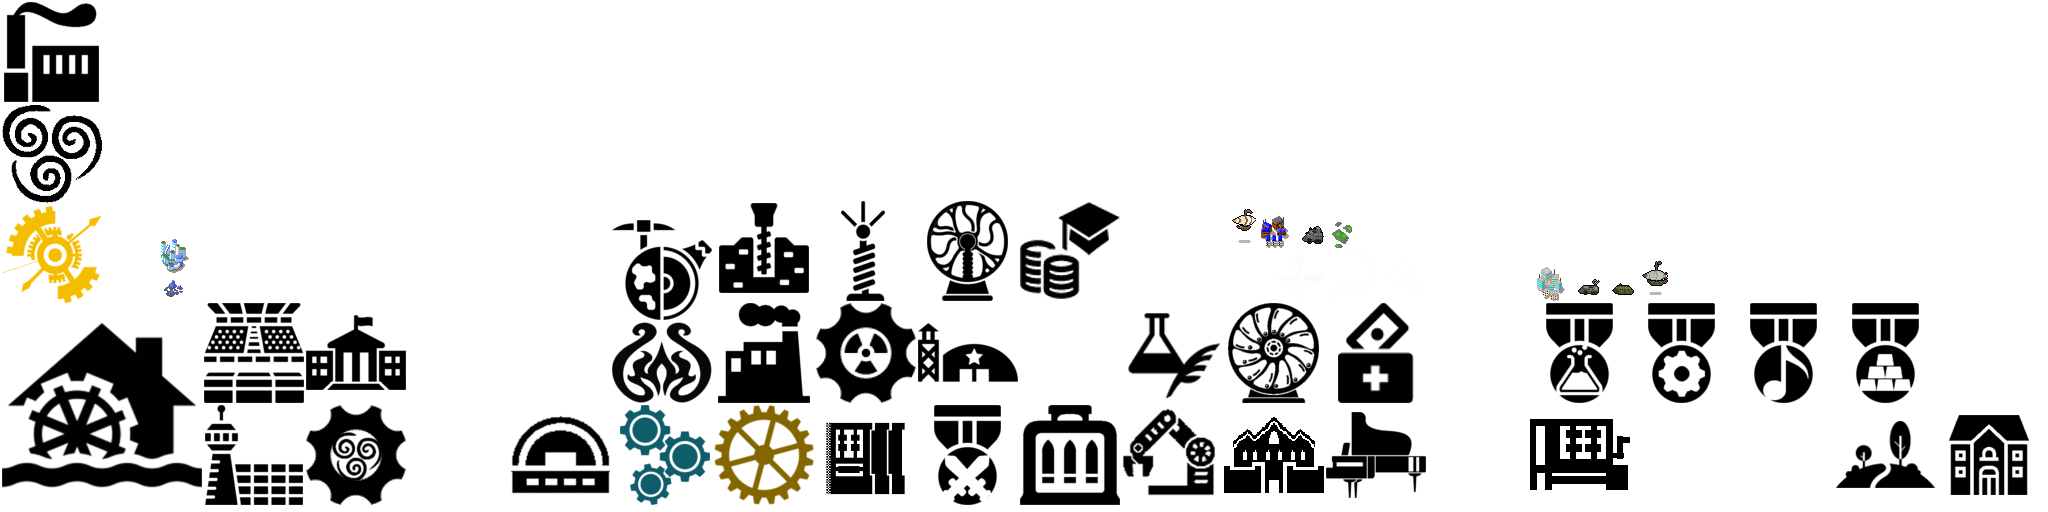
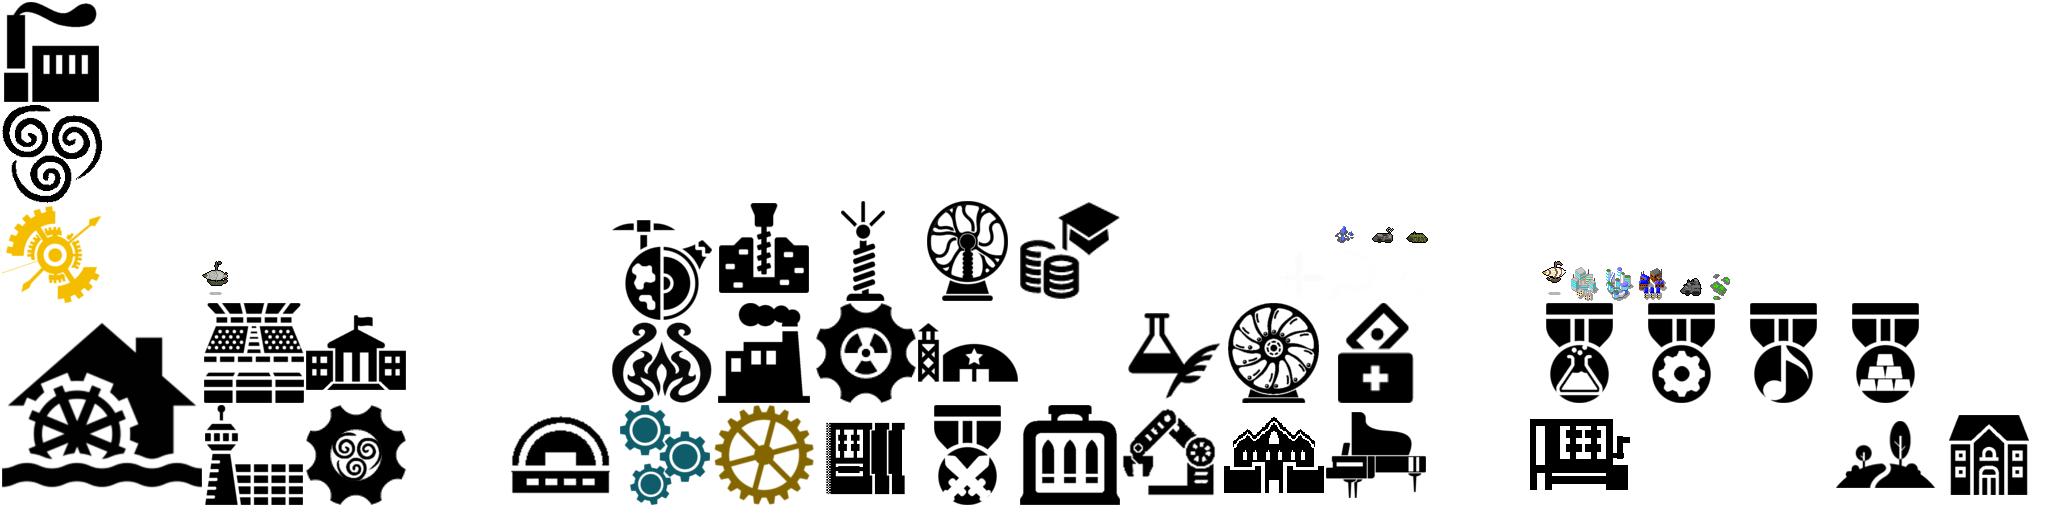
Big change to restore Mounted units and more closely match original game

diff --git a/Credits.md b/Credits.md
@@ -1,4 +1,4 @@
 Created by Red11 - 3.11.8 to 3.12.9    
 Updated by SpaceOutChicken    
-Art by Red11, LynxRo, GeneralWadaling    
+Art by Red11, LynxRo, GeneralWadaling, Ravignir    
 "Remember me"-DiddlyDoo145
